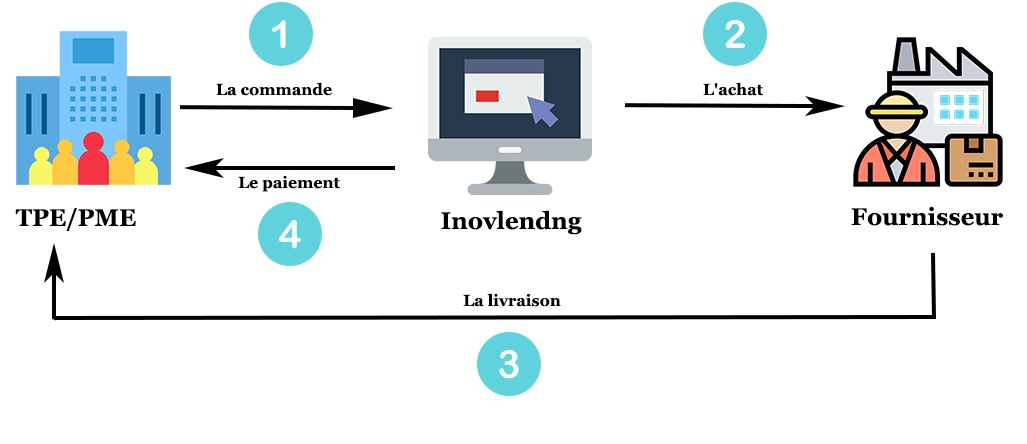
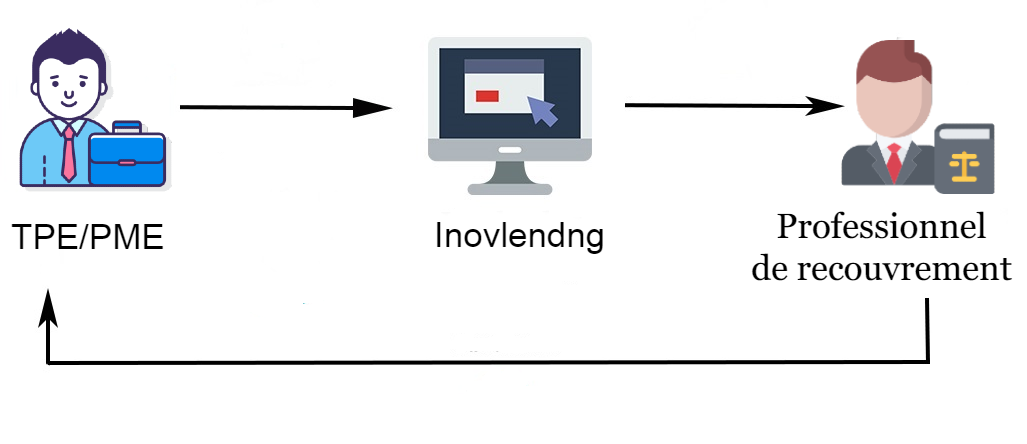
commit

diff --git a/index.html b/index.html
@@ -212,7 +212,7 @@ display: none;
       </div>  
 
       <div class="row text-center">
-        <div class="col-md-6  portfolio-item">
+        <div class="col-md-4  portfolio-item">
           <a class="portfolio-link"  href="https://www.inviotechs.com">
             <div class="portfolio-hover">
               <div class="portfolio-hover-content">
@@ -227,7 +227,22 @@ display: none;
             <p class="text-muted">La première plate-forme logicielle d'affacturage et de financement de factures en mode SaaS pour les banques.</p>
           </div>
         </div>
-        <div class="col-md-6  portfolio-item">
+        <div class="col-md-4  portfolio-item">
+          <a class="portfolio-link"  href="invioCollecting.html">
+            <div class="portfolio-hover">
+              <div class="portfolio-hover-content">
+                <!--<i class="fas fa-plus fa-3x"></i>-->
+              </div>
+            </div>
+            <img class="img-fluid" src="http://www.inviotechs.com/img/laptop.png" size="" alt="">
+          </a>
+          <div class="portfolio-caption">
+		  </br>
+            <h4>InvioCollecting</h4>
+            <p class="text-muted"> Une solution de mise en relation directe avec les pros du recouvrement amiable.</p>
+          </div>
+        </div>
+        <div class="col-md-4  portfolio-item">
           <a class="portfolio-link"  href="funding-solution.html">
             <div class="portfolio-hover">
               <div class="portfolio-hover-content">
@@ -242,7 +257,6 @@ display: none;
             <p class="text-muted">une solution de financement 100% digitale pour automatiser le processus de crédit dans le but de répondre aux besoins de financement de vos clients TPE/PME</p>
           </div>
         </div>
-
       
      
       </div>
@@ -291,7 +305,7 @@ display: none;
           <div class="team-member">
             <img class="mx-auto rounded-circle" src="img/team/unes.jpg" alt="">
             <h4>NAYTLQAID Youness </h4>
-            <p class="text-muted">Founder & CEO </p>
+            <p class="text-muted">Co-Founder & CEO </p>
             <ul class="list-inline social-buttons">
               <li class="list-inline-item">
                 <a href="https://twitter.com/naytlqaid">

diff --git a/invioCollecting.html b/invioCollecting.html
@@ -346,7 +346,7 @@ display: none;
           <div class="team-member">
             <img class="mx-auto rounded-circle" src="img/team/unes.jpg" alt="">
             <h4>Youness Naytlqaid</h4>
-            <p class="text-muted">Founder & CEO </p>
+            <p class="text-muted">Co-Founder & CEO </p>
             <ul class="list-inline social-buttons">
               <li class="list-inline-item">
                 <a href="https://twitter.com/naytlqaid">
